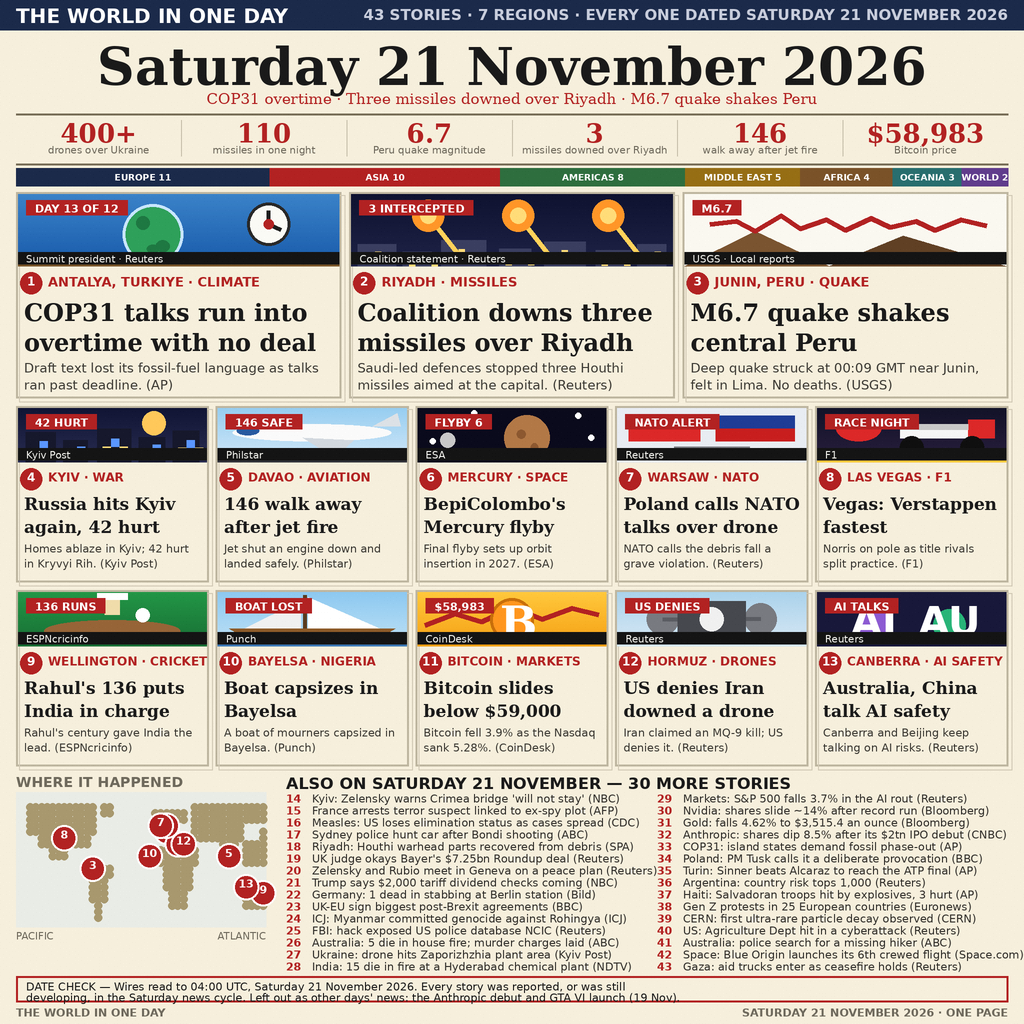
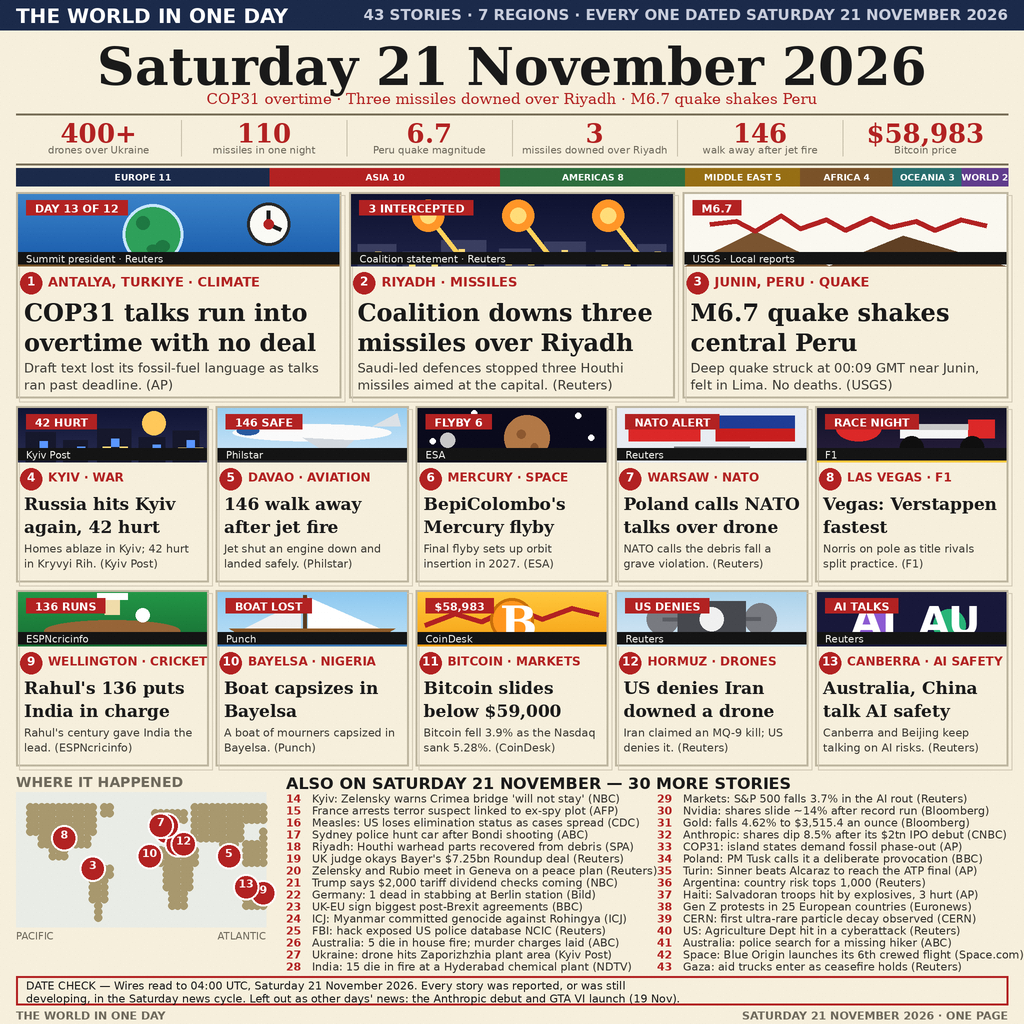
The World Today v11 — fix DATE CHECK box: taller box, lines spaced, footer moved down so no text touches the border

Changed region(s): [[0.0, 0.9375, 1.0, 1.0]]

diff --git a/draw.py b/draw.py
@@ -445,17 +445,17 @@ def build():
         d.text((tx, ty), str(n), font=SANS_B(11), fill=RED)
         d.text((tx + 26 * SS, ty), t, font=SANS(11), fill=(50, 48, 44))
     # date check box
-    d.rectangle([MX, 1952, W - MX, 2004], outline=RED, width=2 * SS)
-    d.text((MX + 10 * SS, 1960),
+    d.rectangle([MX, 1952, W - MX, 2010], outline=RED, width=2 * SS)
+    d.text((MX + 10 * SS, 1958),
            "DATE CHECK — Wires read to 04:00 UTC, Saturday 21 November 2026. Every story was reported, or was still",
            font=SANS(11), fill=INK)
-    d.text((MX + 10 * SS, 1982),
+    d.text((MX + 10 * SS, 1984),
            "developing, in the Saturday news cycle. Left out as other days' news: the Anthropic debut and GTA VI launch (19 Nov).",
            font=SANS(11), fill=INK)
     # footer
-    d.text((MX, 2012), "THE WORLD IN ONE DAY", font=SANS_B(11), fill=GREY)
+    d.text((MX, 2018), "THE WORLD IN ONE DAY", font=SANS_B(11), fill=GREY)
     ft = "SATURDAY 21 NOVEMBER 2026 · ONE PAGE"
-    d.text((W - MX - d.textlength(ft, font=SANS_B(11)), 2012), ft,
+    d.text((W - MX - d.textlength(ft, font=SANS_B(11)), 2018), ft,
            font=SANS_B(11), fill=GREY)
     out = img.resize((1024, 1024), Image.LANCZOS)
     grain(out, amp=4)
